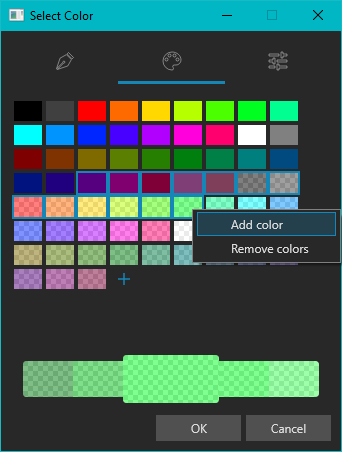
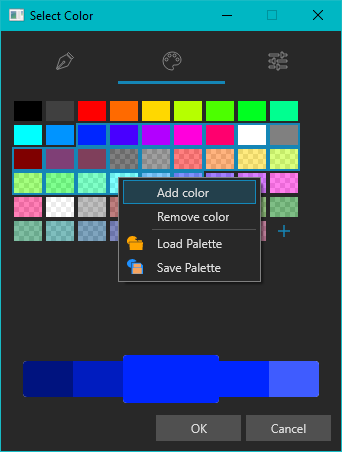
Add getcolor feature in Palette

Changed region(s): [[0.0292, 0.2478, 1.0, 0.6504], [0.0585, 0.7743, 0.9357, 0.8982]]

diff --git a/src/AvaloniaUI/Egorozh.ColorPicker.Avalonia/Controls/Palette/ColorPalette.cs b/src/AvaloniaUI/Egorozh.ColorPicker.Avalonia/Controls/Palette/ColorPalette.cs
@@ -43,6 +43,9 @@ namespace Egorozh.ColorPicker
         public static readonly StyledProperty<SavePaletteHandler?> SavePaletteHandlerProperty =
             AvaloniaProperty.Register<ColorPalette, SavePaletteHandler?>(nameof(SavePaletteHandler));
 
+        public static readonly StyledProperty<GetColorHandler?> GetColorHandlerProperty =
+            AvaloniaProperty.Register<ColorPalette, GetColorHandler?>(nameof(GetColorHandler));
+
         public static readonly StyledProperty<IEnumerable<Avalonia.Media.Color>> ColorsProperty =
             AvaloniaProperty.Register<ColorPalette, IEnumerable<Avalonia.Media.Color>>(
                 nameof(Colors),
@@ -76,6 +79,8 @@ namespace Egorozh.ColorPicker
         public static readonly StyledProperty<string> SavePaletteContextMenuTextProperty =
             AvaloniaProperty.Register<ColorPalette, string>(nameof(SavePaletteContextMenuText), "Save Palette");
 
+        private Color _prevColorForDoubleTappedHandler;
+
         #endregion
 
         #region Public Properties
@@ -90,6 +95,12 @@ namespace Egorozh.ColorPicker
         {
             get => GetValue(SavePaletteHandlerProperty);
             set => SetValue(SavePaletteHandlerProperty, value);
+        }
+
+        public GetColorHandler? GetColorHandler
+        {
+            get => GetValue(GetColorHandlerProperty);
+            set => SetValue(GetColorHandlerProperty, value);
         }
 
         public IEnumerable<Avalonia.Media.Color> Colors
@@ -209,16 +220,21 @@ namespace Egorozh.ColorPicker
 
             foreach (var removedItem in removedItems)
                 RemoveItem(removedItem);
-            
+
             UpdateColors();
         }
 
-        private void AddItemOnTapped(object? sender, RoutedEventArgs e)
+        private async void AddItemOnTapped(object? sender, RoutedEventArgs e)
         {
-            if (Items is not IList<object> items)
+            if (Items is not IList<object> items || GetColorHandler == null)
                 return;
 
-            items.Insert(items.Count - 1, CreateColorItem(Avalonia.Media.Colors.Transparent));
+            var (success, newColor) = await GetColorHandler.Invoke(Avalonia.Media.Colors.Red);
+
+            if (!success)
+                return;
+
+            items.Insert(items.Count - 1, CreateColorItem(newColor));
 
             UpdateColors();
         }
@@ -236,12 +252,17 @@ namespace Egorozh.ColorPicker
             items.Add(_addItem);
         }
 
-        private void AddItemOnClick(object? sender, RoutedEventArgs e)
+        private async void AddItemOnClick(object? sender, RoutedEventArgs e)
         {
-            if (Items is not IList<object> items)
+            if (Items is not IList<object> items || GetColorHandler == null)
                 return;
 
-            var newColorItem = CreateColorItem(Avalonia.Media.Colors.Transparent);
+            var (success, newColor) = await GetColorHandler.Invoke(Avalonia.Media.Colors.Red);
+
+            if (!success)
+                return;
+
+            var newColorItem = CreateColorItem(newColor);
 
             if (SelectedItems.Count > 0)
             {
@@ -266,8 +287,24 @@ namespace Egorozh.ColorPicker
             UpdateColors();
         }
 
-        private void ItemOnDoubleTapped(object? sender, RoutedEventArgs e)
+        private async void ItemOnDoubleTapped(object? sender, RoutedEventArgs e)
         {
+            if (sender is not ListBoxItem colorItem ||
+                _colorManager == null || GetColorHandler == null)
+                return;
+
+            _colorManager.CurrentColor = _prevColorForDoubleTappedHandler;
+
+            var color = GetColorFromItem(colorItem);
+
+            var (success, newColor) = await GetColorHandler.Invoke(color);
+
+            if (success)
+            {
+                colorItem.Background = new SolidColorBrush(newColor);
+
+                UpdateColors();
+            }
         }
 
         private void ItemOnTapped(object? sender, RoutedEventArgs e)
@@ -276,6 +313,8 @@ namespace Egorozh.ColorPicker
                 return;
 
             var color = GetColorFromItem(colorItem);
+
+            _prevColorForDoubleTappedHandler = _colorManager.CurrentColor;
 
             _colorManager.CurrentColor = color.ToColor();
         }
@@ -351,4 +390,6 @@ namespace Egorozh.ColorPicker
     public delegate Task<(bool, IEnumerable<Avalonia.Media.Color>)> LoadPaletteHandlerAsync();
 
     public delegate void SavePaletteHandler(IEnumerable<Avalonia.Media.Color> colors);
+
+    public delegate Task<(bool, Avalonia.Media.Color)> GetColorHandler(Avalonia.Media.Color oldColor);
 }

diff --git a/src/AvaloniaUI/Egorozh.ColorPicker.Avalonia/ColorPickerControl.cs b/src/AvaloniaUI/Egorozh.ColorPicker.Avalonia/ColorPickerControl.cs
@@ -29,6 +29,9 @@ namespace Egorozh.ColorPicker
         public static readonly StyledProperty<SavePaletteHandler?> SavePaletteHandlerProperty =
             AvaloniaProperty.Register<ColorPickerControl, SavePaletteHandler?>(nameof(SavePaletteHandler));
 
+        public static readonly StyledProperty<GetColorHandler?> GetColorHandlerProperty =
+            AvaloniaProperty.Register<ColorPickerControl, GetColorHandler?>(nameof(GetColorHandler));
+
         public static readonly StyledProperty<Color> ColorProperty =
             AvaloniaProperty.Register<ColorPickerControl, Color>(nameof(Color), notifying: ColorChanged);
 
@@ -52,6 +55,12 @@ namespace Egorozh.ColorPicker
         {
             get => GetValue(SavePaletteHandlerProperty);
             set => SetValue(SavePaletteHandlerProperty, value);
+        }
+
+        public GetColorHandler? GetColorHandler
+        {
+            get => GetValue(GetColorHandlerProperty);
+            set => SetValue(GetColorHandlerProperty, value);
         }
 
         public Color Color

diff --git a/src/AvaloniaUI/Egorozh.ColorPicker.Avalonia.Dialog/Controls/ColorPickerDialog.axaml.cs b/src/AvaloniaUI/Egorozh.ColorPicker.Avalonia.Dialog/Controls/ColorPickerDialog.axaml.cs
@@ -55,6 +55,19 @@ namespace Egorozh.ColorPicker.Dialog
             _colorPickerControl = this.Find<ColorPickerControl>("PartColorPickerControl");
             _colorPickerControl.LoadPaletteHandler = LoadPaletteAsync;
             _colorPickerControl.SavePaletteHandler = SavePaletteAsync;
+            _colorPickerControl.GetColorHandler = GetColor;
+        }
+
+        private async Task<(bool, Color)> GetColor(Color color)
+        {
+            ColorPickerDialog colorPickerDialog = new ()
+            {
+                Color = color
+            };
+
+            var res = await colorPickerDialog.ShowDialog<bool>(this);
+
+            return res ? (true, colorPickerDialog.Color) : (false, color);
         }
 
         private async Task<(bool, IEnumerable<Color>)> LoadPaletteAsync()
